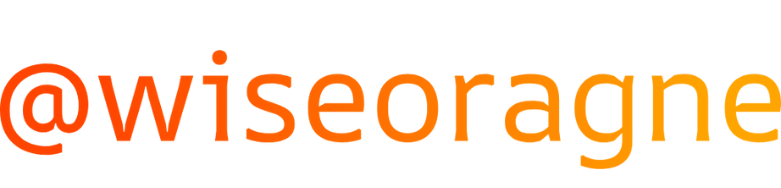
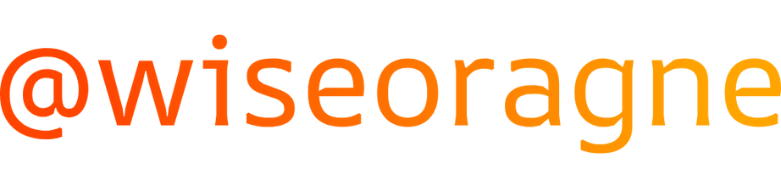
done

Changed region(s): [[0.0, 0.1862, 1.0, 0.9043]]

diff --git a/profile/README.md b/profile/README.md
@@ -10,7 +10,7 @@
 <table>
 <tr>
 <th><a href="https://www.roblox.com/users/1794666003/profile"><img src="https://raw.githubusercontent.com/Osmerge/.github/refs/heads/main/profile/wiseoragne.png" width="150" height="150" title="@wiseoragne's Roblox Avatar" alt="@wiseoragne's Roblox Avatar"></a></th>
-<th><h3>Roblox: <a href="https://www.roblox.com/users/1794666003/profile"><img src="https://raw.githubusercontent.com/Osmerge/.github/refs/heads/test1/profile/wiseoragnegradient.png" width="100" height="16" alt="@wiseoragne"></a></h3><h3>GitHub: <a href="https://github.com/orn8">@orn8</a></h3><p>Founder, Lead Producer, Lead Scripter, SFX/VFX</p></th>
+<th><h3>Roblox: <a href="https://www.roblox.com/users/1794666003/profile"><img align="center" src="https://raw.githubusercontent.com/Osmerge/.github/refs/heads/main/profile/wiseoragnegradient.png" width="125" height="30" alt="@wiseoragne"></a></h3><h3>GitHub: <a href="https://github.com/orn8">@orn8</a></h3><p>Founder, Lead Producer, Lead Scripter, SFX/VFX</p></th>
 <tr>
 <tr>
 <th><a href="https://www.roblox.com/users/3305086051/profile"><img src="https://raw.githubusercontent.com/Osmerge/.github/refs/heads/main/profile/KingTJ925.png" width="150" height="150" title="@KingTJ925's Roblox Avatar" alt="@KingTJ925's Roblox Avatar"></a></th>
